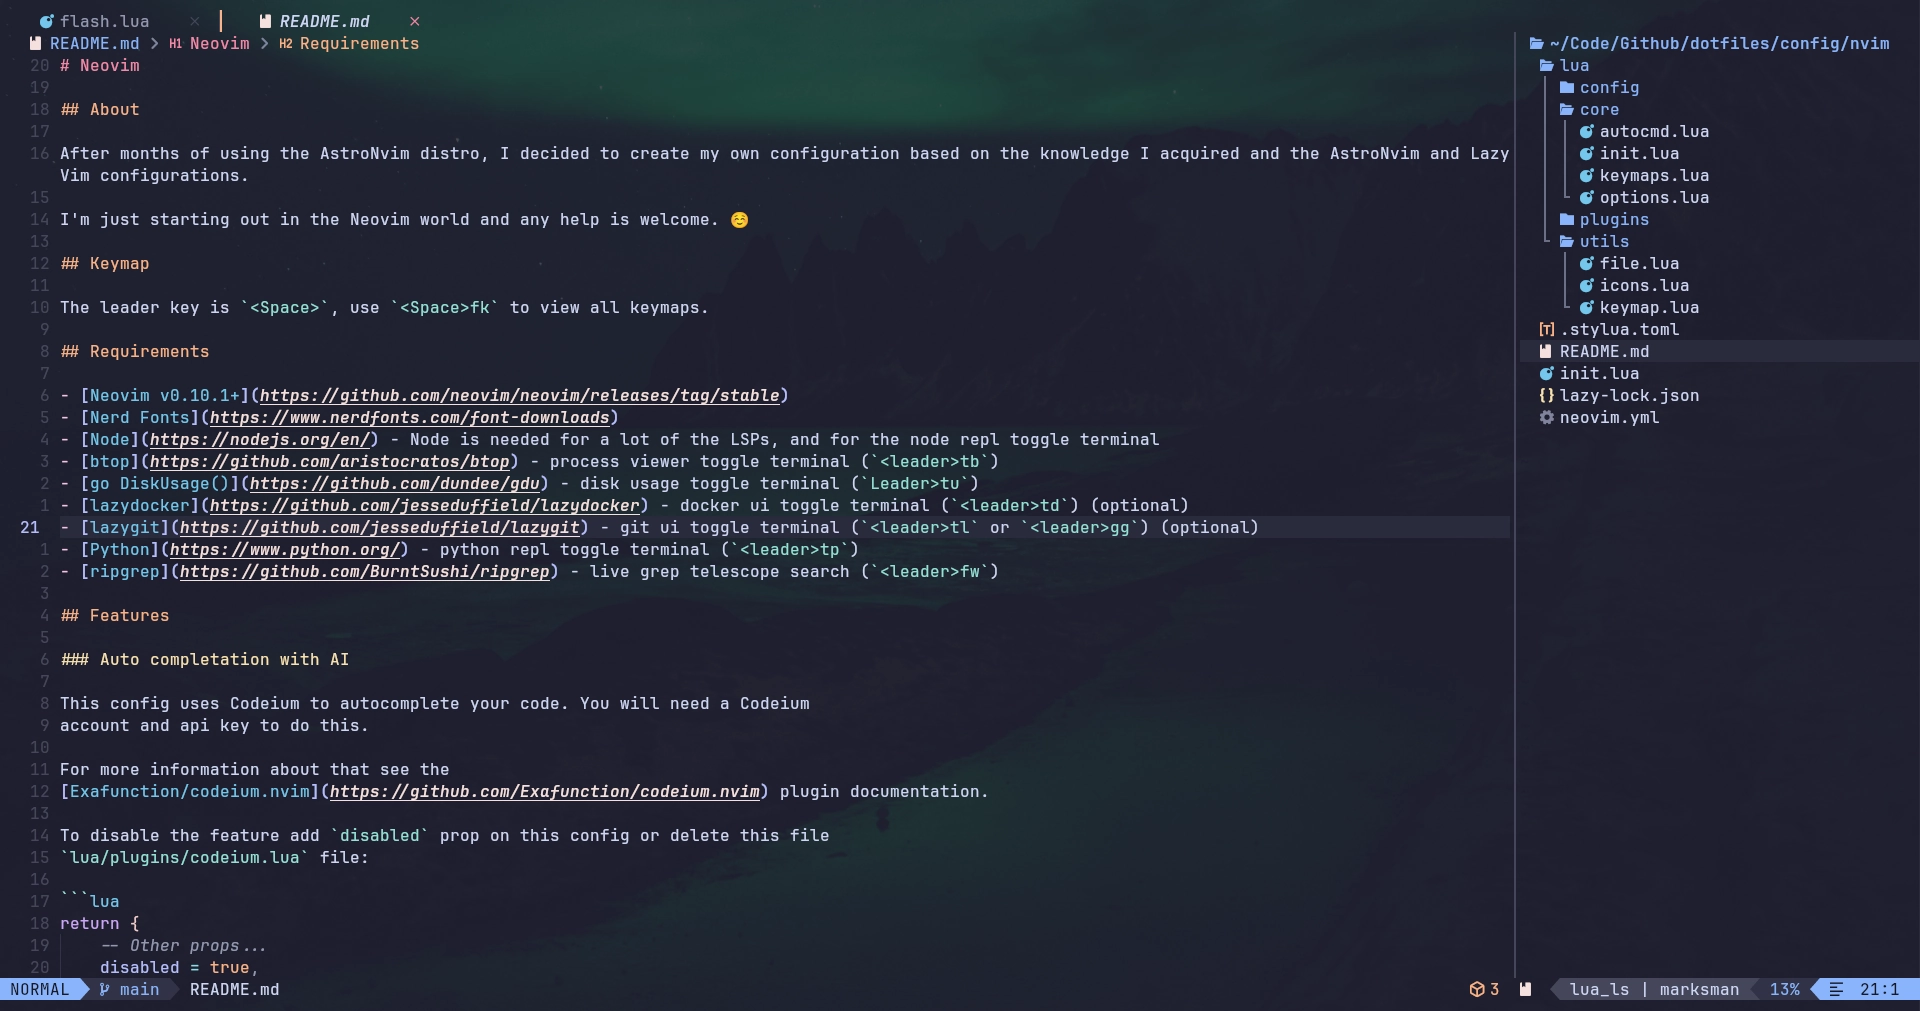
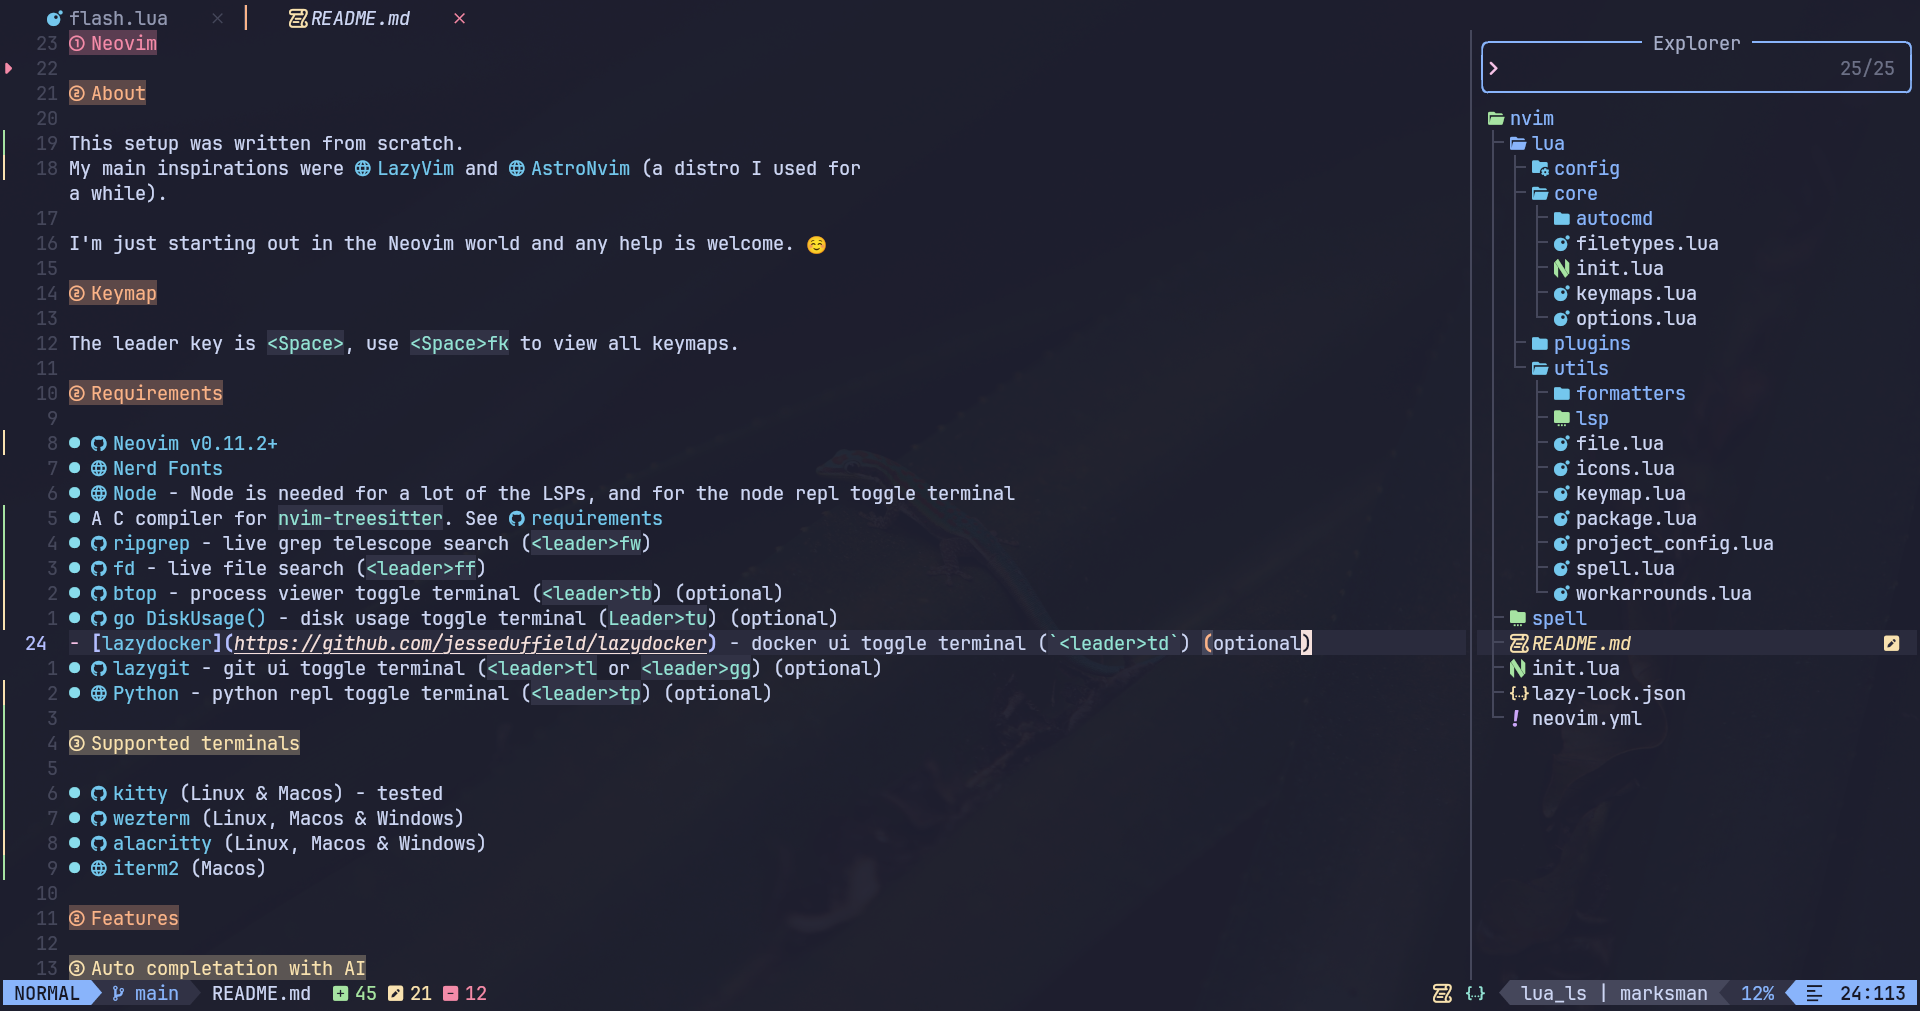
docs(nvim): update README

diff --git a/config/nvim/README.md b/config/nvim/README.md
@@ -1,12 +1,9 @@
 # Neovim
 
-> [!WARNING]
-> This documentation is out of date!  
-> I will rewrite this documentation soon.
-
 ## About
 
-After months of using the AstroNvim distro, I decided to create my own configuration based on the knowledge I acquired and the AstroNvim and LazyVim configurations.
+This setup was written from scratch.
+My main inspirations were [LazyVim](https://www.lazyvim.org/) and [AstroNvim](https://astronvim.com/) (a distro I used for a while).
 
 I'm just starting out in the Neovim world and any help is welcome. ☺
 
@@ -16,35 +13,61 @@ The leader key is `<Space>`, use `<Space>fk` to view all keymaps.
 
 ## Requirements
 
-- [Neovim v0.10.1+](https://github.com/neovim/neovim/releases/tag/stable)
+- [Neovim v0.11.2+](https://github.com/neovim/neovim/releases/tag/stable)
 - [Nerd Fonts](https://www.nerdfonts.com/font-downloads)
 - [Node](https://nodejs.org/en/) - Node is needed for a lot of the LSPs, and for the node repl toggle terminal
-- [btop](https://github.com/aristocratos/btop) - process viewer toggle terminal (`<leader>tb`)
-- [go DiskUsage()](https://github.com/dundee/gdu) - disk usage toggle terminal (`Leader>tu`)
+- A C compiler for `nvim-treesitter`. See [requirements](https://github.com/nvim-treesitter/nvim-treesitter#requirements)
+- [ripgrep](https://github.com/BurntSushi/ripgrep) - live grep telescope search (`<leader>fw`)
+- [fd](https://github.com/sharkdp/fd) - live file search (`<leader>ff`)
+- [btop](https://github.com/aristocratos/btop) - process viewer toggle terminal (`<leader>tb`) (optional)
+- [go DiskUsage()](https://github.com/dundee/gdu) - disk usage toggle terminal (`Leader>tu`) (optional)
 - [lazydocker](https://github.com/jesseduffield/lazydocker) - docker ui toggle terminal (`<leader>td`) (optional)
 - [lazygit](https://github.com/jesseduffield/lazygit) - git ui toggle terminal (`<leader>tl` or `<leader>gg`) (optional)
-- [Python](https://www.python.org/) - python repl toggle terminal (`<leader>tp`)
-- [ripgrep](https://github.com/BurntSushi/ripgrep) - live grep telescope search (`<leader>fw`)
+- [Python](https://www.python.org/) - python repl toggle terminal (`<leader>tp`) (optional)
+
+### Supported terminals
+
+- [kitty](https://github.com/kovidgoyal/kitty) (Linux & Macos) - tested
+- [wezterm](https://github.com/wez/wezterm) (Linux, Macos & Windows)
+- [alacritty](https://github.com/alacritty/alacritty) (Linux, Macos & Windows)
+- [iterm2](https://iterm2.com/) (Macos)
 
 ## Features
 
 ### Auto completation with AI
 
-This config uses Windsurf to autocomplete your code. You will need a Windsurf
-account and api key to do this.
+This configuration is designed to handle Copilot and Windsurf (Codeium).
+To use both, you need to add the environment variable `AI_PROVIDER`.
 
-For more information about that see the
-[Exafunction/windsurf.nvim](https://github.com/Exafunction/windsurf.nvim) plugin documentation.
-
-To disable the feature add `disabled` prop on this config or delete this file
-`lua/plugins/windsurf.lua` file:
-
-```lua
-return {
-    -- Other props...
-    disabled = true,
-}
+```bash
+# 'codeium' for Windsurf or 'copilot' for Copilot
+export AI_PROVIDER=codeium
 ```
+
+> If you don't want to use AI autocomplete, just don't define the variable.
+
+#### Windsurf (Codeium)
+
+To use it, you must add the API key with `:Codeium Auth` (open any file for the plugin to load).
+
+> See [Exafunction/windsurf.nvim](https://github.com/Exafunction/windsurf.nvim) for more information.
+
+#### Copilot
+
+This configuration provides autocomplete with Copilot and also integration with Copillot chat.  
+Use `:Copilot auth` to authenticate client.
+
+##### Copilot shortcuts
+
+| Shortcut     | Descrioption              |
+| ------------ | ------------------------- |
+| `<leader>aa` | Toggle Copilot Chat       |
+| `<leader>ax` | Clear Copilot Chat        |
+| `<leader>aq` | Open Copilot Chat (Quick) |
+| `<leader>ap` | Open Prompt Chat Options  |
+
+> For more information, see [zbirenbaum/copilot.lua](https://github.com/zbirenbaum/copilot.lua)
+> and [CopilotC-Nvim/CopilotChat.nvim](https://github.com/CopilotC-Nvim/CopilotChat.nvim).
 
 ### Wakatime
 
@@ -59,7 +82,6 @@ To disable the feature comment out or remove this line in the
 ```lua
 -- Comment out our remove this line
 -- { "wakatime/vim-wakatime", event = { "BufReadPre" } },
-,
 ```
 
 ### Background Transparence
@@ -115,37 +137,48 @@ nvim
 
 > These are some of the main plugins configured.
 
-- alpha-nvim
+- auto-session
 - better-escape.nvim
+- blink-copilot (when configured)
+- blink-emoji.nvim
+- blink.cmp
 - bufferline.nvim
 - catppuccin
 - codesnap.nvim
 - Comment.nvim
 - conform.nvim
+- copilot.lua (when configured)
+- CopilotChat.nvim (when configured)
 - dial.nvim
-- dropbar.nvim
 - flash.nvim
 - gitsigns.nvim
-- indent-blankline.nvim
+- grug-far.nvim
 - lualine.nvim
-- LuaSnip
-- markdown-preview.nvim
 - mason.nvim
+- mini.ai
+- mini.move
+- mini.pairs
 - multiple-cursors.nvim
-- neo-tree.nvim
-- nvim-cmp
 - nvim-coverage
+- nvim-highlight-colors
 - nvim-lspconfig
-- nvim-spectre
 - nvim-surround
 - nvim-treesitter
+- nvim-ts-autotag
 - nvim-vtsls
+- render-markdown.nvim
+- rest.nvim
 - SchemaStore.nvim
-- telescope.nvim
+- snacks.nvim
+- todo-comments.nvim
 - toggleterm.nvim
+- treesj
+- trouble.nvim
+- tsc.nvim
 - vim-wakatime
 - which-key.nvim
-- windsurf.nvim
+- windsurf.nvim (when configured)
+- yanky.nvim
 
 ## Preview
 
